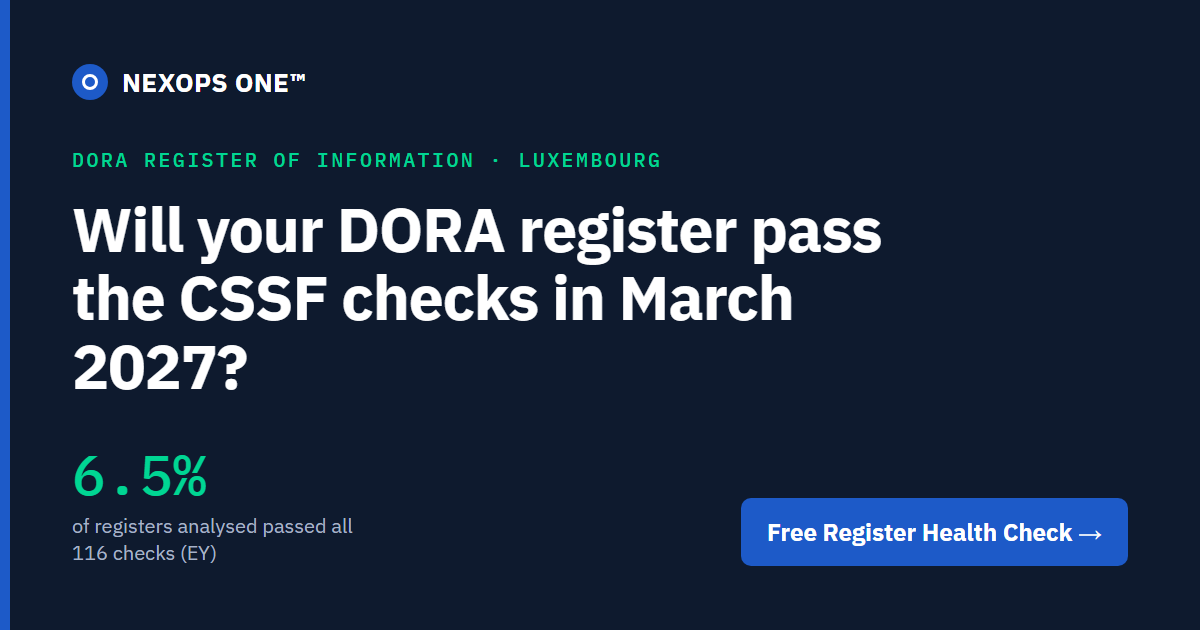
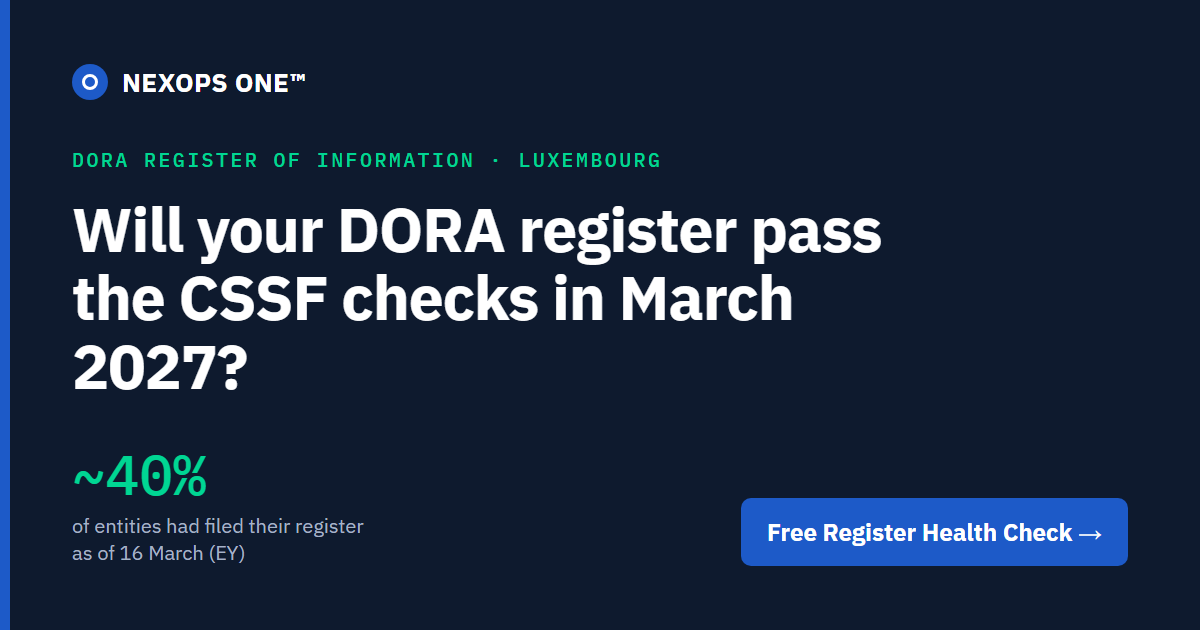
[Fix] correct EY figures

Changed region(s): [[0.0617, 0.8143, 0.3083, 0.9048], [0.0617, 0.7238, 0.1542, 0.7841]]

diff --git a/landing/fr/index.html b/landing/fr/index.html
@@ -135,17 +135,16 @@
     <div class="proof-top">
       <div>
         <span class="eyebrow">Pourquoi maintenant</span>
-        <h2 id="proof-title" style="margin-top:14px">La plupart des registres échouent à au moins un contrôle. La plupart des erreurs sont de simples données manquantes.</h2>
+        <h2 id="proof-title" style="margin-top:14px">À l’approche de l’échéance, la plupart des entités n’avaient pas encore déposé.</h2>
       </div>
-      <p>Les contrôles se durcissent chaque année. Les grandes entités mobilisent des consultants. Une société de gestion de 15&nbsp;personnes, rarement.</p>
+      <p>La CSSF a invité les autres à déposer au plus vite, pour laisser le temps d’identifier et de corriger les anomalies. Les grandes entités mobilisent des consultants. Une société de gestion de 15&nbsp;personnes, rarement.</p>
     </div>
     <div class="stats">
-      <div class="stat reveal"><b><em>6,5</em>&nbsp;%</b><p>des registres analysés ont passé les 116&nbsp;contrôles de validation</p></div>
-      <div class="stat reveal"><b><em>86</em>&nbsp;%</b><p>des erreurs concernaient des informations obligatoires manquantes</p></div>
-      <div class="stat reveal"><b>947</b><p>registres analysés</p></div>
+      <div class="stat reveal"><b><em>~40</em>&nbsp;%</b><p>des entités tenues de déposer un registre l’avaient fait au 16&nbsp;mars</p></div>
+      <div class="stat reveal"><b>31.03</b><p>échéance de dépôt fixée par la CSSF en 2026 (ouverture d’eDesk le 11&nbsp;février)</p></div>
       <div class="stat reveal"><b>31.12<span style="font-size:.5em">.26</span></b><p>date de référence du dépôt de 2027</p></div>
     </div>
-    <p class="source">Sources&nbsp;: CSSF, communication sur la remise du registre DORA (février 2026)&nbsp;; EY, <a href="https://www.ey.com/en_lu/insights/financial-services/dora-register-of-information-quality-checks-do-not-stop-at-submission" rel="noopener" hreflang="en">contrôles qualité du registre d’informations DORA</a> (analyse de 947&nbsp;registres, en anglais).</p>
+    <p class="source">Sources&nbsp;: CSSF, communication sur la remise du registre DORA (février 2026)&nbsp;; EY, <a href="https://www.ey.com/en_lu/insights/financial-services/dora-register-of-information-quality-checks-do-not-stop-at-submission" rel="noopener" hreflang="en">les contrôles qualité du registre d’informations DORA ne s’arrêtent pas au dépôt</a>, d’après des données prudentielles (en anglais).</p>
   </div>
 </section>
 
@@ -164,7 +163,7 @@
       </li>
       <li class="step reveal">
         <h3>Nous le passons aux contrôles de validation</h3>
-        <p>En commençant par les champs obligatoires manquants, à l’origine de la plupart des erreurs.</p>
+        <p>En commençant par les champs obligatoires manquants, pour les corriger avant le dépôt.</p>
       </li>
       <li class="step reveal">
         <h3>Recevez votre rapport sous 48&nbsp;heures</h3>
@@ -528,7 +527,7 @@
       </details>
       <details>
         <summary>Que vérifie exactement le diagnostic&nbsp;?<svg class="icon" aria-hidden="true"><use href="#i-plus"/></svg></summary>
-        <p>Nous commençons par les contrôles de champs obligatoires issus des règles de validation des AES, car les informations obligatoires manquantes représentaient 86&nbsp;% des erreurs dans l’analyse d’EY. Le rapport indique chaque anomalie, son emplacement dans votre registre et la manière de la corriger.</p>
+        <p>Nous commençons par les contrôles de champs obligatoires issus des règles de validation des AES. Le rapport indique chaque anomalie, son emplacement dans votre registre et la manière de la corriger.</p>
       </details>
       <details>
         <summary>Les données de notre registre quittent-elles notre environnement&nbsp;?<svg class="icon" aria-hidden="true"><use href="#i-plus"/></svg></summary>

diff --git a/landing/index.html b/landing/index.html
@@ -135,17 +135,16 @@
     <div class="proof-top">
       <div>
         <span class="eyebrow">Why now</span>
-        <h2 id="proof-title" style="margin-top:14px">Most registers don't pass every check. Most errors are simply missing data.</h2>
+        <h2 id="proof-title" style="margin-top:14px">Close to the deadline, most entities still hadn't filed.</h2>
       </div>
-      <p>Validation keeps tightening every year. Large entities put consultants on it. A 15-person ManCo usually can't.</p>
+      <p>The CSSF urged the rest to submit as soon as possible, leaving time to find and fix issues. Large entities put consultants on it. A 15-person ManCo usually can't.</p>
     </div>
     <div class="stats">
-      <div class="stat reveal"><b><em>6.5</em>%</b><p>of registers analysed passed all 116 validation checks</p></div>
-      <div class="stat reveal"><b><em>86</em>%</b><p>of the errors were missing mandatory information</p></div>
-      <div class="stat reveal"><b>947</b><p>registers in the analysis</p></div>
+      <div class="stat reveal"><b><em>~40</em>%</b><p>of entities required to file a register had done so as of 16 March</p></div>
+      <div class="stat reveal"><b>31.03</b><p>filing deadline set by the CSSF in 2026 (eDesk opened 11 February)</p></div>
       <div class="stat reveal"><b>31.12<span style="font-size:.5em">.26</span></b><p>reference date for the 2027 filing</p></div>
     </div>
-    <p class="source">Sources: CSSF, DORA register submission notice (February 2026); EY, <a href="https://www.ey.com/en_lu/insights/financial-services/dora-register-of-information-quality-checks-do-not-stop-at-submission" rel="noopener">DORA register of information quality checks</a> (analysis of 947 registers).</p>
+    <p class="source">Sources: CSSF, DORA register submission notice (February 2026); EY, <a href="https://www.ey.com/en_lu/insights/financial-services/dora-register-of-information-quality-checks-do-not-stop-at-submission" rel="noopener">DORA register of information quality checks do not stop at submission</a>, citing supervisory data.</p>
   </div>
 </section>
 
@@ -164,7 +163,7 @@
       </li>
       <li class="step reveal">
         <h3>We run it through the validation checks</h3>
-        <p>Starting with missing mandatory fields, the cause of most errors.</p>
+        <p>Starting with missing mandatory fields, so you can fix them before you file.</p>
       </li>
       <li class="step reveal">
         <h3>Get your report within 48 hours</h3>
@@ -531,7 +530,7 @@
       </details>
       <details>
         <summary>What exactly does the Health Check check?<svg class="icon" aria-hidden="true"><use href="#i-plus"/></svg></summary>
-        <p>We start with the mandatory-field checks from the ESA validation rules, because missing mandatory information caused 86% of the errors in the EY analysis. The report lists each finding, where it sits in your register and how to fix it.</p>
+        <p>We start with the mandatory-field checks from the ESA validation rules. The report lists each finding, where it sits in your register and how to fix it.</p>
       </details>
       <details>
         <summary>Does our register data leave our environment?<svg class="icon" aria-hidden="true"><use href="#i-plus"/></svg></summary>

diff --git a/landing/assets/site.css b/landing/assets/site.css
@@ -122,7 +122,7 @@ figure{margin:0}
 .proof .eyebrow{color:var(--mint)}
 .proof-top{display:flex;flex-wrap:wrap;justify-content:space-between;align-items:end;gap:24px;margin-bottom:44px}
 .proof-top p{max-width:46ch;color:var(--on-navy-muted)}
-.stats{display:grid;grid-template-columns:repeat(4,1fr);border-top:1px solid var(--navy-line)}
+.stats{display:grid;grid-template-columns:repeat(3,1fr);border-top:1px solid var(--navy-line)}
 .stat{padding:28px 24px 8px 0}
 .stat+.stat{padding-left:24px;border-left:1px solid var(--navy-line)}
 .stat b{display:block;font:500 clamp(2.2rem,4.4vw,3.2rem)/1 var(--mono);color:#fff;margin-bottom:12px;font-variant-numeric:tabular-nums}
@@ -130,8 +130,7 @@ figure{margin:0}
 .stat p{color:var(--on-navy-muted);font-size:.95rem;max-width:26ch}
 .proof .source{margin-top:36px;font-size:.82rem;color:var(--on-navy-muted)}
 .proof .source a{color:var(--on-navy)}
-@media (max-width:860px){.stats{grid-template-columns:1fr 1fr}.stat:nth-child(3){border-left:0;padding-left:0}.stat:nth-child(n+3){border-top:1px solid var(--navy-line)}}
-@media (max-width:480px){.stats{grid-template-columns:1fr}.stat,.stat+.stat{border-left:0;padding-left:0}.stat+.stat{border-top:1px solid var(--navy-line)}}
+@media (max-width:720px){.stats{grid-template-columns:1fr}.stat,.stat+.stat{border-left:0;padding-left:0}.stat+.stat{border-top:1px solid var(--navy-line)}}
 
 /* Section heads */
 .head{max-width:720px;margin-bottom:52px}

diff --git a/docs/Venture Days 2026 — Go-to-Market Strategy.md b/docs/Venture Days 2026 — Go-to-Market Strategy.md
@@ -23,11 +23,11 @@ On stage we claim only what the code does today; a jury with one compliance offi
 | Vendor trust | Ships its own DORA vendor due-diligence pack: register entry, exit plan, subprocessors | Handing the pack out as final — it and the licence are pending legal review |
 | NEXOPS ONE™ | Read-only connectors to Azure (Lighthouse) and AWS; design-partner demo | FinOps, sovereignty or AI copilot as products — these are scaffolds |
 
-**Statistics to use** (verify the EY figure's original source before it goes on a slide):
+**Statistics to use** (confirm the year of the EY figure before stating one):
 
 - The CSSF warned that 2026 checks apply to more data fields, so a register accepted in 2025 may be rejected in 2026.
-- EY reports that of 947 registers analysed, only 6.5% passed all 116 checks, and 86% of errors were missing mandatory information.
-- Drop the earlier "only 40% filed ahead of the deadline" figure: no source was found.
+- EY, citing supervisory data: as of 16 March, only around 40% of entities required to submit a register had done so; the CSSF urged the rest to submit as soon as possible to leave time to identify and remediate issues.
+- Do not use "6.5% of 947 registers passed all 116 checks" or "86% of errors were missing mandatory information": the EY article does not contain them.
 
 ## Positioning
 
@@ -58,7 +58,7 @@ One story in three lengths: the one-liner for the badge queue, 60 seconds for th
 
 **60 seconds.**
 
-> Every CSSF-supervised entity must file a DORA register of all its ICT providers every year. The checks are getting stricter: the CSSF itself warned that registers accepted in 2025 may be rejected in 2026. In one analysis, only 6.5% of registers passed every check, and most errors were simply missing mandatory data.
+> Every CSSF-supervised entity must file a DORA register of all its ICT providers every year. The checks are getting stricter: the CSSF itself warned that registers accepted in 2025 may be rejected in 2026. And close to the deadline, only around 40% of entities had filed; the CSSF had to urge the rest to submit early enough to fix their errors.
 >
 > Big entities throw consultants at it. A 15-person ManCo can't.
 >
@@ -72,7 +72,7 @@ One story in three lengths: the one-liner for the badge queue, 60 seconds for th
 
 **Deck (8 slides, 3–5 minutes).**([Example of Pitch to potencial Venture capital](./NEXOPS%20ONE™%20—%20Venture%20Days%20Pitch.pptx))
 
-1. Problem — the CSSF warning and the 6.5% statistic
+1. Problem — the CSSF warning and the ~40% filed as of 16 March
 2. Who hurts — small ManCos, AIFMs and PSFs without a DORA team
 3. Live demo (90 seconds) — import a register, see the gaps, export
 4. Why self-hosted open core wins in Luxembourg
@@ -91,7 +91,7 @@ The Register Health Check is the one piece of engineering before the event; lett
 
 - [ ] Confirm pitch slot, length and Q&A format with Luxinnovation; register on the event's matchmaking platform
 - [ ] List 40 named targets: LPEA and ALFI members, third-party ManCos, fund administrators, IT-outsourcing PSFs, past mission contacts
-- [ ] Health Check: implement the mandatory-field checks from the ESA validation rules workbook (86% of errors) and a one-page validation PDF
+- [ ] Health Check: implement the mandatory-field checks from the ESA validation rules workbook and a one-page validation PDF
 - [ ] Two or three non-binding letters of intent ("we will pilot for the 2027 filing")
 - [ ] Deck, one-pager with QR code, Health Check booking page
 - [ ] Rehearse with one compliance officer and one investor; drill the hard questions

diff --git a/docs/Register Health Check.md b/docs/Register Health Check.md
@@ -4,16 +4,16 @@ NEXOPS ONE · DORA register of information · Luxembourg
 
 The CSSF has warned that its checks now cover more data fields, so a register accepted in 2025 can be rejected in 2026. The 2027 filing (reference date 31 December 2026) will be checked at least as strictly.
 
-**6.5%**of registers analysed passed all 116 validation checks
+**~40%**of entities required to file a register had done so as of 16 March
 
-**86%**of the errors were missing mandatory information
+**31 March**filing deadline set by the CSSF in 2026
 
 ## Free for Venture Days contactsRegister Health Check
 
 Find out what will fail before the regulator does. No software to install and no commitment.
 
 1. **Send last year's register**The spreadsheet or the package you filed in 2026.
-2. **We run it through the validation checks**Starting with missing mandatory fields, the cause of most errors.
+2. **We run it through the validation checks**Starting with missing mandatory fields, so you can fix them before you file.
 3. **Get your report within 48 hours**Every finding, where it sits in the register, and how to fix it.
 
 Your file is handled under NDA and deleted once the report is delivered.
@@ -40,4 +40,4 @@ Book your Health Check \[Founder name\] · \[email\] · \[phone\] Finance-sector
 
 NEXOPS ONE
 
-Readiness aid, not legal advice or certification. Sources: CSSF, DORA register submission notice (February 2026); EY, DORA register of information quality checks (analysis of 947 registers).
+Readiness aid, not legal advice or certification. Sources: CSSF, DORA register submission notice (February 2026); EY, DORA register of information quality checks do not stop at submission (citing supervisory data).

diff --git a/README.md b/README.md
@@ -56,6 +56,6 @@ Form submissions only work on Netlify; here the request fails and the page shows
 ## Before going live
 
 - Have the privacy notice (`privacy/`, `fr/confidentialite/`) reviewed once the legal entity exists.
-- Check the EY figures (6.5%, 86%, 947 registers, 116 checks) against the original source.
+- Confirm the year of EY's "around 40% had filed as of 16 March" figure before stating it anywhere; the page leaves the year out.
 - Have a native French speaker proofread `fr/`.
 - Point the QR code on the printed one-pager to `/` (English) or `/fr/`.
